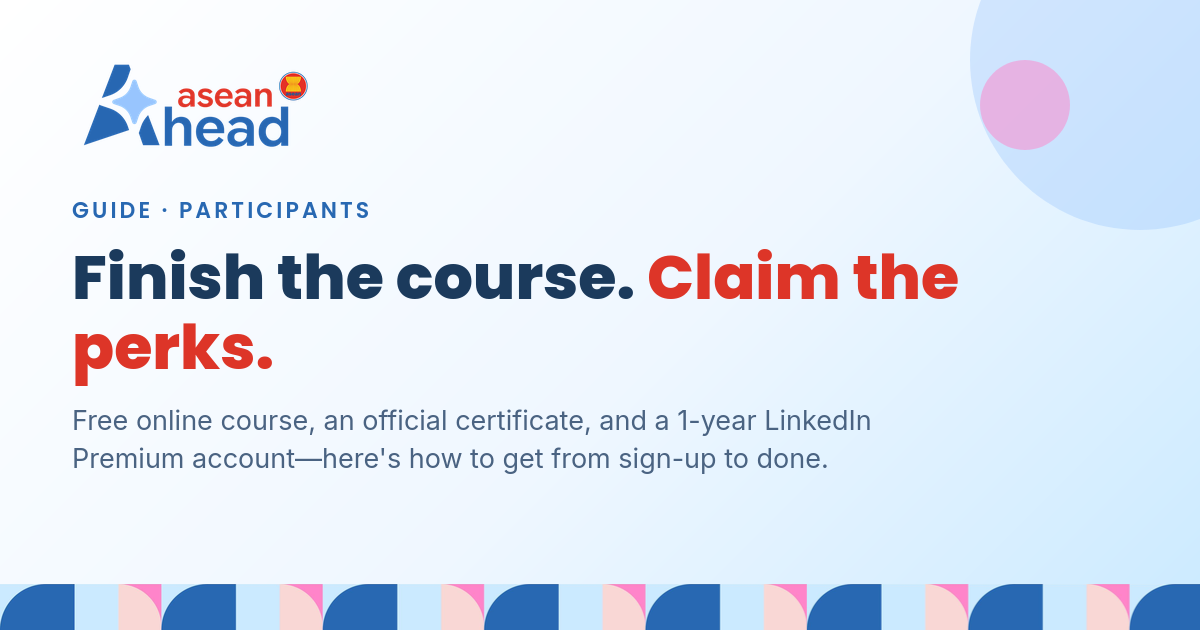
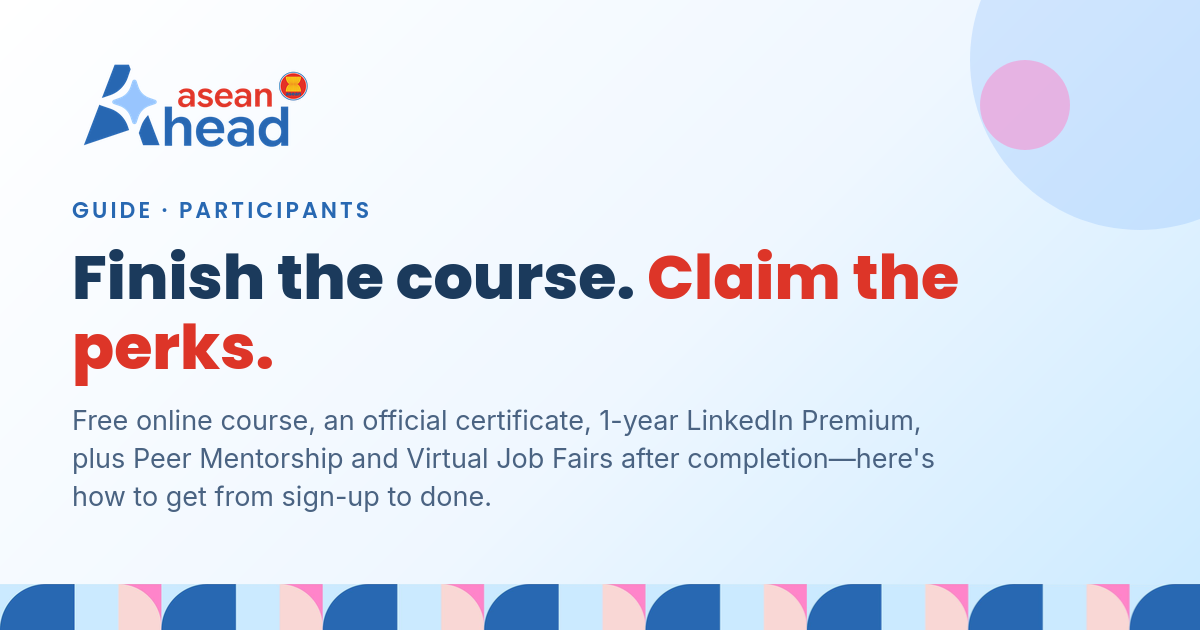
content: spell out LinkedIn Premium claim requirements; refresh participants OG card     - State that the LinkedIn profile link and the CV improved using the course     are submitted in the Post-Course Evaluation itself—no separate form     - Add a completion-requirements callout: have both ready be
- files affected
        - participants.html
        - static/assets/img/og/og-participants.png

Changed region(s): [[0.0617, 0.6333, 0.7708, 0.8143]]

diff --git a/participants.html b/participants.html
@@ -71,7 +71,10 @@
       <div class="card">
         <span class="chip chip-participants">Perk</span>
         <h3>1-year LinkedIn Premium</h3>
-        <p>Granted after submission of requirements (e.g. LinkedIn profile, improved CV based on what you learned) and subject to internal verification by the ASEAN AHEAD team.</p>
+        <p>Granted after you provide—in the <strong>Post-Course
+           Evaluation</strong>—your <strong>LinkedIn profile link</strong> and a
+           <strong>CV improved using what you learned from the course</strong>,
+           subject to internal verification by the ASEAN AHEAD team.</p>
       </div>
       <div class="card">
         <span class="chip chip-participants">Pathway</span>
@@ -160,12 +163,21 @@
            <br><span class="strong-inline">Philippines</span>
            <br><em>8. How did you hear about this programme?</em>
            <br><span class="strong-inline">Smart Cities PH (SmartCT)</span></p>
+        <p><span class="strong-inline">This is also where you claim your
+           LinkedIn Premium:</span> the evaluation asks for your
+           <strong>LinkedIn profile link</strong> and a <strong>CV improved
+           using what you learned from the course</strong>. Have both ready
+           before you open it—leaving them out means the team can't verify
+           your Premium grant.</p>
       </li>
       <li>
         <strong>Get your certificate, then LinkedIn Premium</strong>
-        <p>Download your certificate from the platform. To claim your 1-year LinkedIn Premium, make sure you provide in the the Post-Course Evaluation: your
-           LinkedIn profile and a CV you made using what you learned from the course. The ASEAN AHEAD team then
-           verifies everything internally. Expect results within 2–4 weeks. You'll be notified whether your LinkedIn
+        <p>Download your certificate from the platform. To claim your 1-year
+           LinkedIn Premium, make sure you provided in the Post-Course
+           Evaluation: your <strong>LinkedIn profile link</strong> and a
+           <strong>CV you made using what you learned from the course</strong>.
+           The ASEAN AHEAD team then verifies everything internally. Expect
+           results within 2–4 weeks. You'll be notified whether your LinkedIn
            Premium is granted or if you need to submit additional requirements.</p>
       </li><li>
         <strong>Congratulations! What's next?</strong>
@@ -188,6 +200,15 @@
           discussion started by others, in any module</li>
       <li>Complete the <strong>Post-Course Evaluation</strong></li>
     </ul>
+    <div class="callout gold" style="margin-top:1.2rem">
+      <strong>Claiming the 1-year LinkedIn Premium takes two more things.</strong>
+      The Post-Course Evaluation is also where you submit your
+      <strong>LinkedIn profile link</strong> and a <strong>CV improved using
+      what you learned from the course</strong>—there is no separate form.
+      Have both ready <em>before</em> you open the evaluation: without them the
+      ASEAN AHEAD team can't verify your Premium grant, and you may be asked
+      to submit additional requirements later.
+    </div>
     <div class="callout coral" style="margin-top:1.2rem">
       <strong>Make your discussion post meaningful.</strong> The discussion
       requirement isn't a box to tick—it's part of the learning. Joining an
@@ -306,9 +327,8 @@
       </div>
       <div class="prose">
         <p><strong>Went async?</strong> If you joined through an intro event or the
-           open call, aim to finish within 7 days (21 days at the latest)—your
-           champion will check in until you're done, most actively in your
-           first week.</p>
+           open call, aim to finish within 7 days and your
+           champion will check in until you're done.</p>
         <p><strong>Stuck?</strong> Ask your champion first; they can solve most
            login, test, and playback issues on the spot.</p>
       </div>
